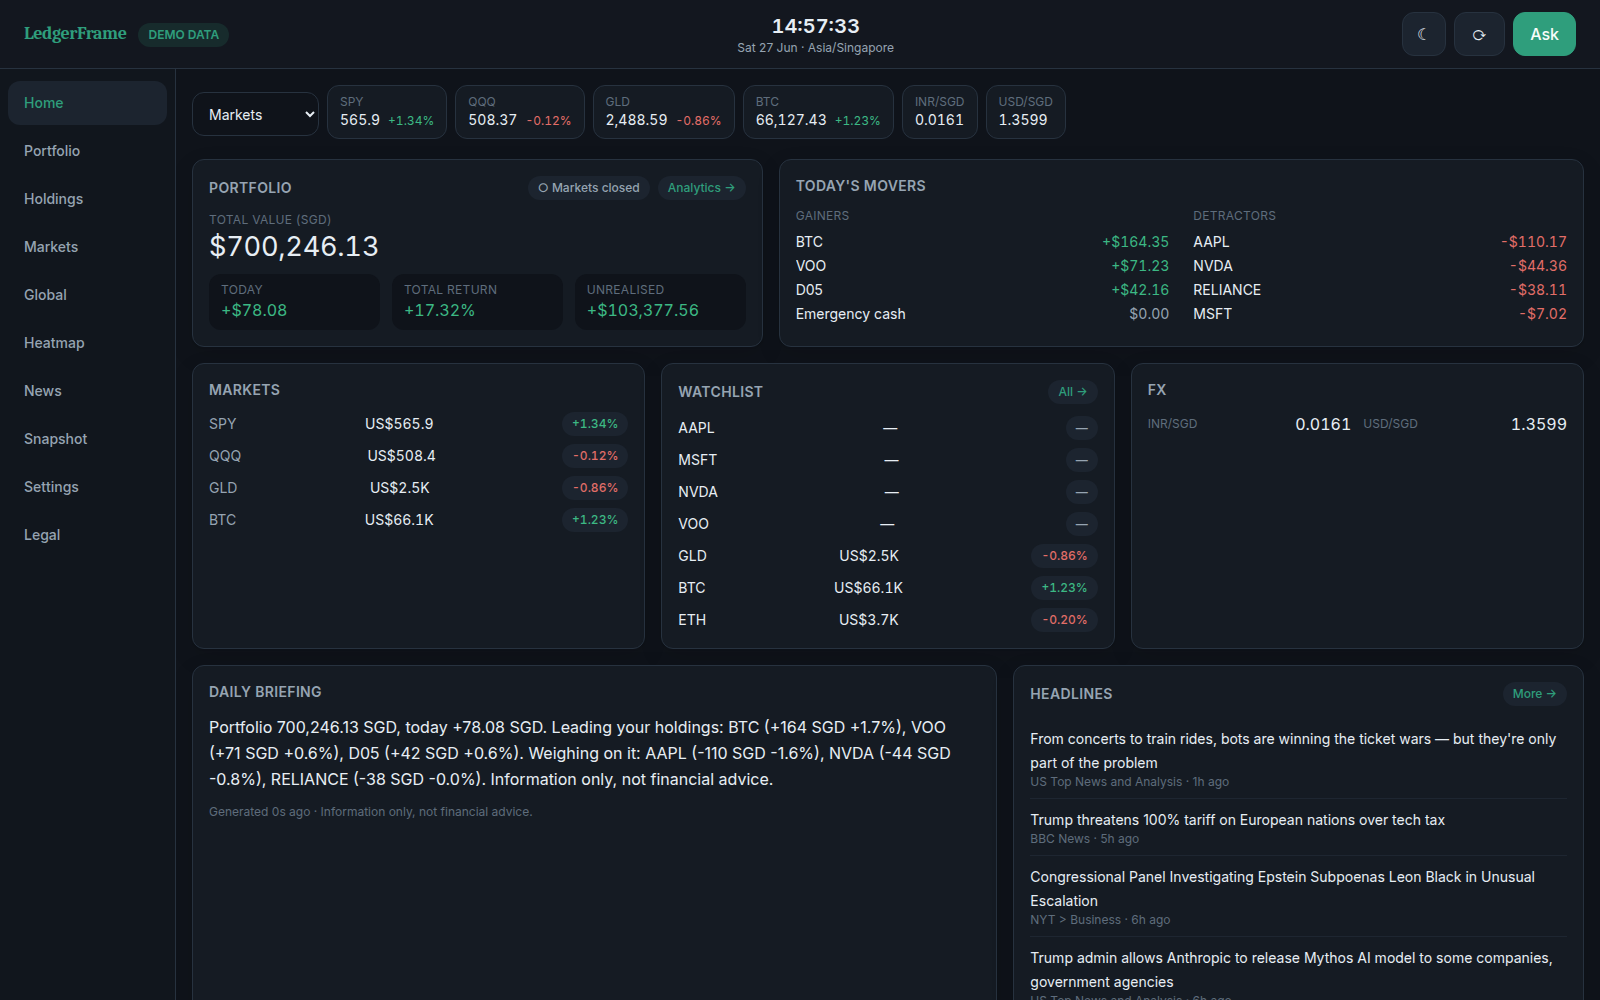
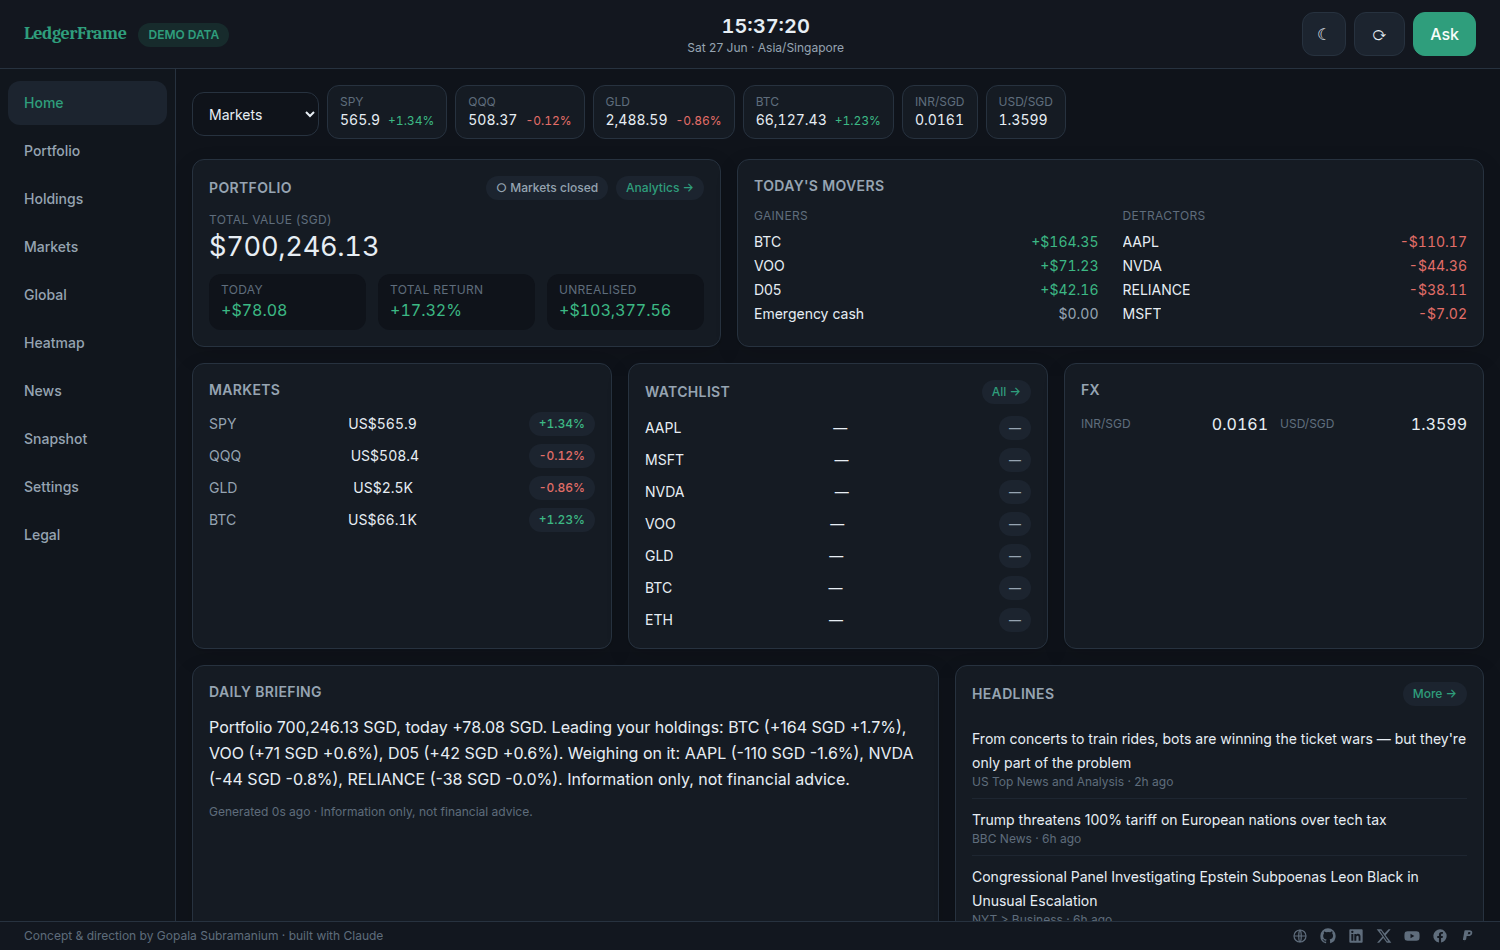
feat(ui): minimal credit footer with author + social links (v1.0.3)
Thin, non-obtrusive, responsive footer on every page crediting the concept &
direction (Gopala Subramanium) with social icons (website/GitHub/LinkedIn/X/
YouTube/Facebook) + PayPal support link. README gains an Author & credits section.

diff --git a/frontend/src/components/Footer.tsx b/frontend/src/components/Footer.tsx
@@ -1,0 +1,46 @@
+// Minimal, non-obtrusive credit footer. Concept & direction by the author; built
+// with Claude. Stays a thin bar; on small screens it shows icons only.
+
+const LINKS: { label: string; href: string; icon: React.ReactNode }[] = [
+  { label: "Website", href: "https://me.sgopala.com", icon: (
+    <svg viewBox="0 0 24 24" className="w-4 h-4" fill="none" stroke="currentColor" strokeWidth="1.8"><circle cx="12" cy="12" r="9"/><path d="M3 12h18M12 3c2.5 2.5 2.5 16 0 18M12 3c-2.5 2.5-2.5 16 0 18"/></svg>
+  ) },
+  { label: "GitHub", href: "https://github.com/gopalasubramanium", icon: (
+    <svg viewBox="0 0 24 24" className="w-4 h-4" fill="currentColor"><path d="M12 .5A11.5 11.5 0 0 0 .5 12 11.5 11.5 0 0 0 8.4 23c.6.1.8-.3.8-.6v-2c-3.2.7-3.9-1.4-3.9-1.4-.5-1.3-1.3-1.7-1.3-1.7-1-.7.1-.7.1-.7 1.2.1 1.8 1.2 1.8 1.2 1 1.8 2.8 1.3 3.5 1 .1-.8.4-1.3.7-1.6-2.6-.3-5.3-1.3-5.3-5.7 0-1.3.5-2.3 1.2-3.1-.1-.3-.5-1.5.1-3.1 0 0 1-.3 3.3 1.2a11.5 11.5 0 0 1 6 0C17.3 4.7 18.3 5 18.3 5c.6 1.6.2 2.8.1 3.1.8.8 1.2 1.8 1.2 3.1 0 4.4-2.7 5.4-5.3 5.7.4.4.8 1.1.8 2.2v3.2c0 .3.2.7.8.6A11.5 11.5 0 0 0 23.5 12 11.5 11.5 0 0 0 12 .5z"/></svg>
+  ) },
+  { label: "LinkedIn", href: "https://www.linkedin.com/in/gopalasubramanium/", icon: (
+    <svg viewBox="0 0 24 24" className="w-4 h-4" fill="currentColor"><path d="M20.5 2h-17A1.5 1.5 0 0 0 2 3.5v17A1.5 1.5 0 0 0 3.5 22h17a1.5 1.5 0 0 0 1.5-1.5v-17A1.5 1.5 0 0 0 20.5 2zM8 19H5V9h3v10zM6.5 7.5A1.75 1.75 0 1 1 6.5 4a1.75 1.75 0 0 1 0 3.5zM19 19h-3v-5.3c0-1.3-.5-2.2-1.7-2.2-.9 0-1.4.6-1.7 1.2-.1.2-.1.5-.1.8V19h-3V9h3v1.3c.4-.6 1.1-1.5 2.8-1.5 2 0 3.4 1.3 3.4 4.1V19z"/></svg>
+  ) },
+  { label: "X", href: "https://x.com/sgopala", icon: (
+    <svg viewBox="0 0 24 24" className="w-4 h-4" fill="currentColor"><path d="M18.9 2H22l-7.6 8.7L23 22h-6.8l-5.3-7-6.1 7H1.6l8.1-9.3L1 2h7l4.8 6.4L18.9 2zm-2.4 18h1.9L7.6 4H5.6l10.9 16z"/></svg>
+  ) },
+  { label: "YouTube", href: "https://www.youtube.com/@sgopala", icon: (
+    <svg viewBox="0 0 24 24" className="w-4 h-4" fill="currentColor"><path d="M23 7.5a3 3 0 0 0-2.1-2.1C19 5 12 5 12 5s-7 0-8.9.4A3 3 0 0 0 1 7.5 31 31 0 0 0 .6 12 31 31 0 0 0 1 16.5a3 3 0 0 0 2.1 2.1C5 19 12 19 12 19s7 0 8.9-.4A3 3 0 0 0 23 16.5 31 31 0 0 0 23.4 12 31 31 0 0 0 23 7.5zM9.8 15.3V8.7l5.7 3.3-5.7 3.3z"/></svg>
+  ) },
+  { label: "Facebook", href: "https://www.facebook.com/gopala.subramanium", icon: (
+    <svg viewBox="0 0 24 24" className="w-4 h-4" fill="currentColor"><path d="M22 12a10 10 0 1 0-11.6 9.9v-7H7.9V12h2.5V9.8c0-2.5 1.5-3.9 3.8-3.9 1.1 0 2.2.2 2.2.2v2.5h-1.2c-1.2 0-1.6.8-1.6 1.6V12h2.7l-.4 2.9h-2.3v7A10 10 0 0 0 22 12z"/></svg>
+  ) },
+  { label: "Support (PayPal)", href: "https://www.paypal.com/donate/?business=[email redacted]&item_name=Support%20LedgerFrame&no_recurring=0", icon: (
+    <svg viewBox="0 0 24 24" className="w-4 h-4" fill="currentColor"><path d="M7.2 21l.5-3H5.1c-.5 0-.8-.4-.7-.9L6.7 4.3c.1-.5.6-.9 1.1-.9h6.4c2.7 0 4.6 1.4 4.2 4-.5 3.2-2.7 4.6-5.7 4.6H10l-.8 4.9c-.1.6-.6 1-1.2 1H7.2zm4-11.7h1.9c1.4 0 2.4-.6 2.6-1.9.2-1-.4-1.5-1.5-1.5h-1.7l-.5 2.9 -.8 0.5z"/></svg>
+  ) },
+];
+
+export function Footer() {
+  return (
+    <footer className="shrink-0 border-t border-line bg-surface/50 px-3 sm:px-6 py-1.5 text-xs text-faint flex items-center justify-between gap-3">
+      <span className="truncate">
+        <span className="hidden sm:inline">Concept &amp; direction by </span>
+        <a href="https://me.sgopala.com" target="_blank" rel="noreferrer" className="hover:text-accent">Gopala Subramanium</a>
+        <span className="hidden md:inline"> · built with Claude</span>
+      </span>
+      <nav className="flex items-center gap-3 shrink-0">
+        {LINKS.map((l) => (
+          <a key={l.label} href={l.href} target="_blank" rel="noreferrer" title={l.label}
+             aria-label={l.label} className="hover:text-accent transition-colors">
+            {l.icon}
+          </a>
+        ))}
+      </nav>
+    </footer>
+  );
+}

diff --git a/frontend/src/App.tsx b/frontend/src/App.tsx
@@ -18,6 +18,7 @@ import InstrumentDetail from "./pages/InstrumentDetail";
 import Settings from "./pages/Settings";
 import Legal from "./pages/Legal";
 import { UpdateBanner } from "./components/UpdateBanner";
+import { Footer } from "./components/Footer";
 
 const NAV = [
   { path: "/", label: "Home" },
@@ -141,6 +142,8 @@ export default function App() {
           ))}
         </div>
       )}
+
+      <Footer />
 
       {asking && <AskPanel onClose={() => setAsking(false)} />}
       <UpdateBanner />

diff --git a/app/__init__.py b/app/__init__.py
@@ -1,3 +1,3 @@
 """LedgerFrame — local-first personal financial intelligence display."""
 
-__version__ = "1.0.2"
+__version__ = "1.0.3"

diff --git a/README.md b/README.md
@@ -201,6 +201,22 @@ More: [`OPERATIONS.md`](OPERATIONS.md) · [`SECURITY.md`](SECURITY.md) ·
 - Validated on x86_64 dev hardware; Pi/Hailo paths are guarded — run `doctor.sh` on
   the device.
 
+## Author & credits
+
+**Concept, direction & product design:** [Gopala Subramanium](https://me.sgopala.com).
+The implementation was generated with Claude under that direction.
+
+[Website](https://me.sgopala.com) ·
+[GitHub](https://github.com/gopalasubramanium) ·
+[LinkedIn](https://www.linkedin.com/in/gopalasubramanium/) ·
+[X](https://x.com/sgopala) ·
+[YouTube](https://www.youtube.com/@sgopala) ·
+[Facebook](https://www.facebook.com/gopala.subramanium)
+
+If LedgerFrame is useful to you, you can
+[support the project via PayPal](https://www.paypal.com/donate/?business=[email redacted]&item_name=Support%20LedgerFrame&no_recurring=0)
+⭐ and a star on the repo helps too.
+
 ## License
 
 MIT — see [`LICENSE`](LICENSE). Market data & external providers are subject to their